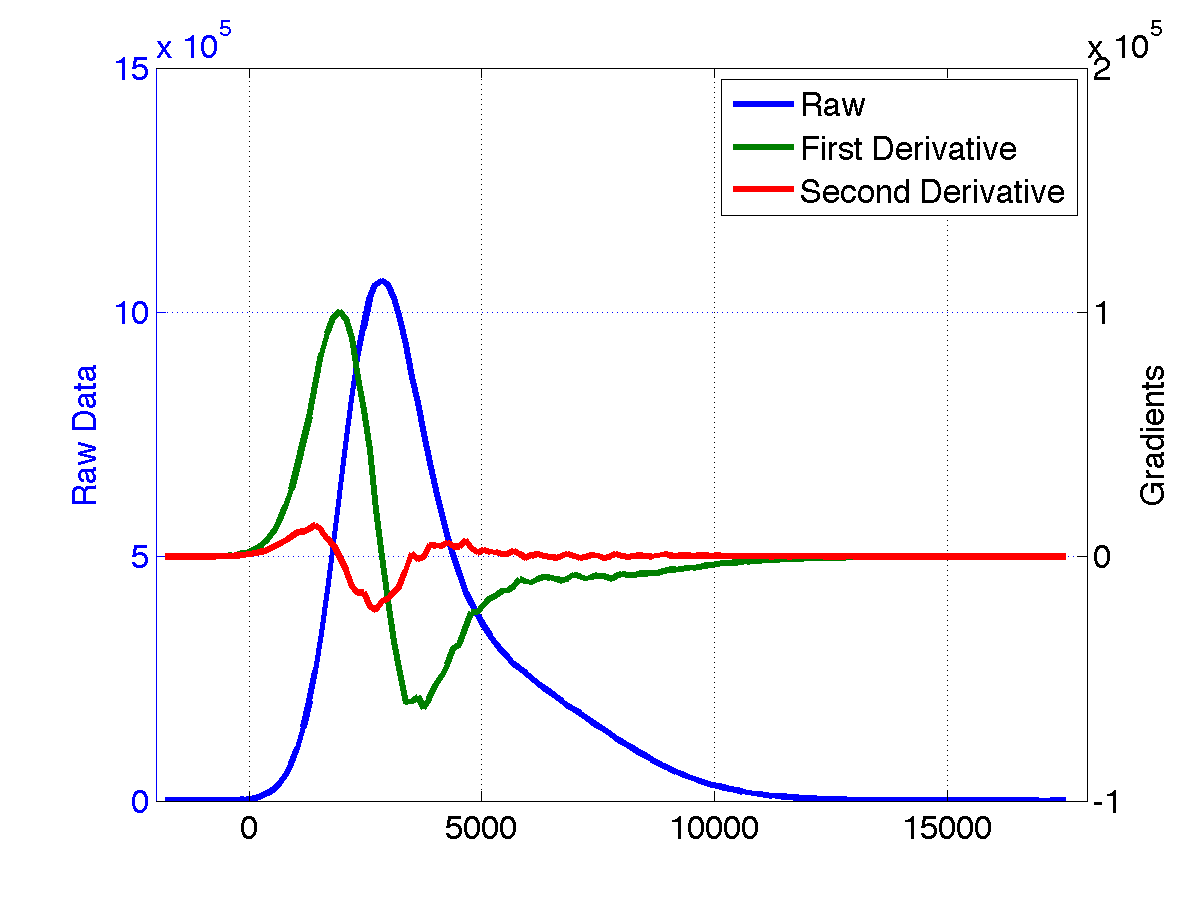
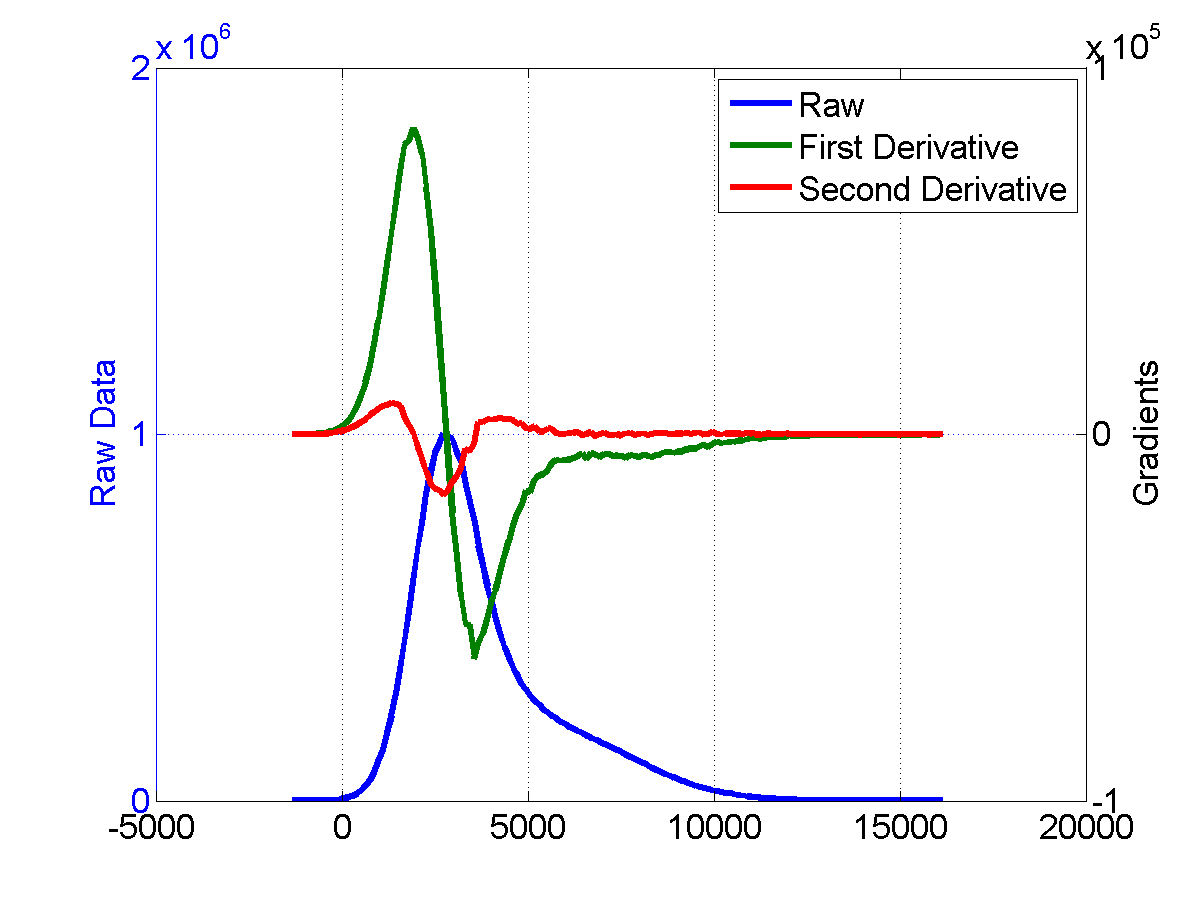
Peak fitting for sample N
Added peak fitting and distribution curves for sample N.

diff --git a/Initial_Image_Analysis.m b/Initial_Image_Analysis.m
@@ -27,16 +27,16 @@ shading flat
 axis equal;
 colorbar
 colormap gray
-saveas(gcf, './assets/topslice-xy.png' )
-data.('images').('top')(1) = struct( 'src', '/assets/topslice-xy.png', 'description', 'Top XY Slice of Sample Image' );
+saveas(gcf, './assets/N_topslice-xy.png' )
+data.('images').('top')(1) = struct( 'src', '/assets/N_topslice-xy.png', 'description', 'Top XY Slice of Sample Image' );
 
 pcolor( squeeze( cropped(:,1,:) )); 
 shading flat
 axis equal;
 colorbar
 colormap gray
-saveas(gcf, './assets/topslice-xz.png' )
-data.('images').('top')(2) = struct( 'src', '/assets/topslice-xz.png', 'description', 'Top XZ Slice of Sample Image' )
+saveas(gcf, './assets/N_topslice-xz.png' )
+data.('images').('top')(2) = struct( 'src', '/assets/N_topslice-xz.png', 'description', 'Top XZ Slice of Sample Image' )
 
 
 pcolor( squeeze( cropped(1,:,:) )); 
@@ -44,8 +44,8 @@ shading flat
 axis equal;
 colorbar
 colormap gray
-saveas(gcf, './assets/topslice-yz.png' )
-data.('images').('top')(3) = struct( 'src', '/assets/topslice-yz.png', 'description', 'Top YZ Slice of Sample Image' )
+saveas(gcf, './assets/N_topslice-yz.png' )
+data.('images').('top')(3) = struct( 'src', '/assets/N_topslice-yz.png', 'description', 'Top YZ Slice of Sample Image' )
 
 
 s = savejson( [], data )
@@ -96,9 +96,15 @@ set( [h1;h2], 'LineWidth',3)
 set( ax,'Fontsize',16)
 ylabel(ax(1), 'Raw Data')
 ylabel(ax(2), 'Gradients')
-
 saveas( gcf,'./assets/raw-image-stats.png')
 data.('images').('distribution') = struct( 'src', '/assets/raw-image-stats.png', 'description', 'This distribution of pixels values and their gradients.' )
+figure
+[yy,xx] = hist( cropped(:),151)
+[ p,e ]= peakfit( [xx;yy], 0,0,3,1 );
+
+saveas( gcf,'./assets/2_peak_fit.png')
+data.('images').('2_Peak_fit') = struct( 'src', '/assets/2_peak_fit.png', 'description', 'This is the peak fit using 2 peaks.' )
+
 s = savejson( [], data )
 fo = fopen( data.header, 'w'); fwrite( fo, s ); fclose(fo);
 %%
